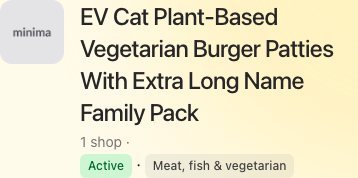
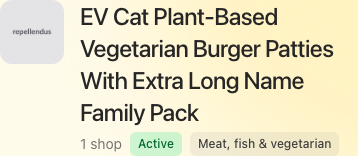
Stop the product page's shop count leaving a lone dot at a line end
The row under the title joined its items with "·", so on a phone the first
line ended in a separator. It is now a wrapping row with gaps. It is also a
div rather than flux:text: a badge renders a div, and a div inside a <p>
closed the paragraph, so the row's classes never reached the badges.

diff --git a/resources/views/livewire/products/product-show.blade.php b/resources/views/livewire/products/product-show.blade.php
@@ -16,19 +16,21 @@
             <x-product-thumb :product="$product" size="size-16 sm:size-20" />
             <div class="min-w-0">
                 <flux:heading size="xl" level="1" class="tracking-tight">{{ $product->title }}</flux:heading>
-                <flux:text class="mt-1 text-zinc-500">
-                    {{ trans_choice(':count shop|:count shops', $shops->count(), ['count' => $shops->count()]) }}
-                    ·
+                {{-- A wrapping row with gaps rather than "·" separators: on a
+                     narrow screen a separator is left dangling at a line end.
+                     A div, not flux:text: a badge is a div, and a div inside
+                     a <p> closes the paragraph before it. --}}
+                <div class="mt-1 flex flex-wrap items-center gap-x-2 gap-y-1 text-sm text-zinc-500 dark:text-zinc-400" data-test="product-meta">
+                    <span>{{ trans_choice(':count shop|:count shops', $shops->count(), ['count' => $shops->count()]) }}</span>
                     <flux:badge size="sm" :color="$product->active ? 'green' : 'zinc'">
                         {{ $product->active ? __('Active') : __('Paused') }}
                     </flux:badge>
                     @if ($product->category !== null)
-                        ·
                         <a href="{{ route('app.products.index', ['category' => $product->category->value]) }}" wire:navigate data-test="product-category-badge">
                             <flux:badge size="sm" color="zinc">{{ $product->category->label() }}</flux:badge>
                         </a>
                     @endif
-                </flux:text>
+                </div>
             </div>
         </div>
 
